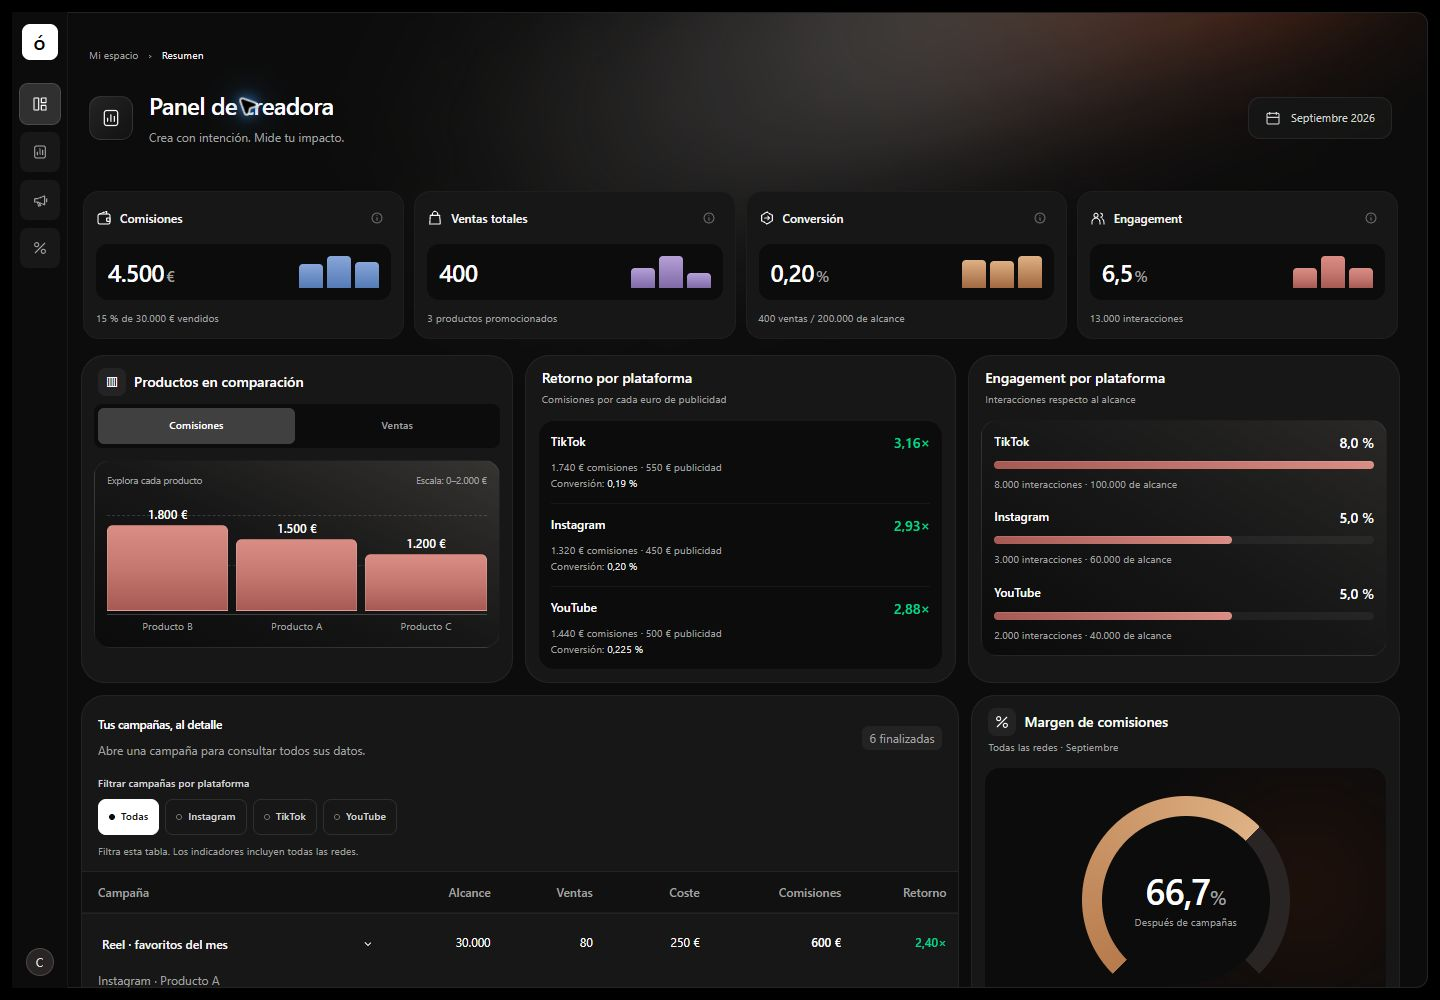
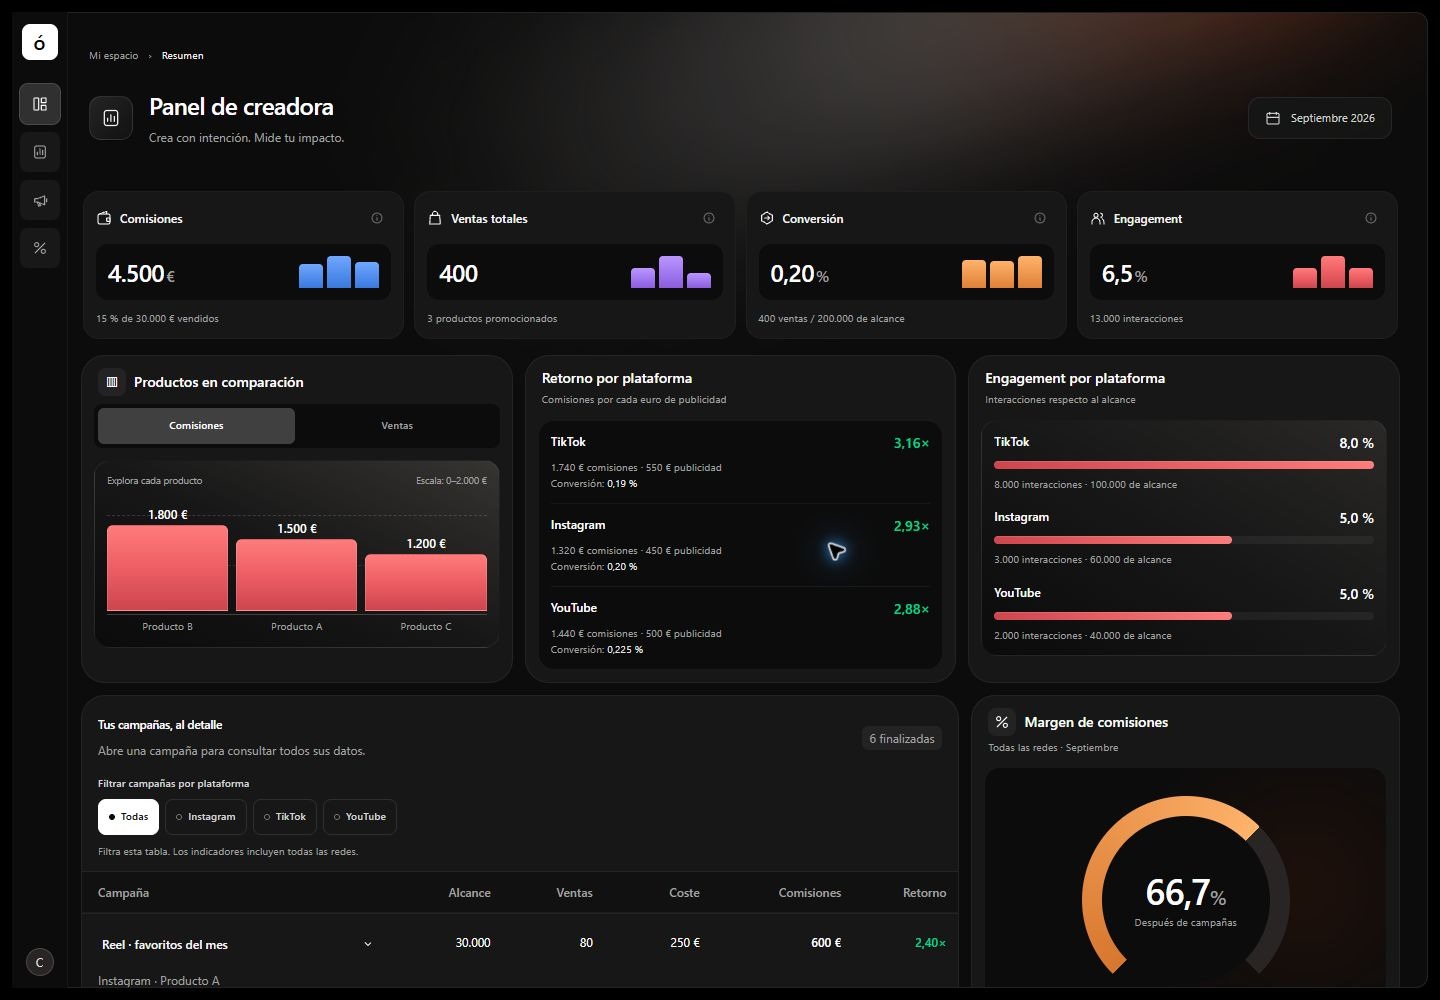
style: restore vibrancy to dashboard chart palette

diff --git a/index.html b/index.html
@@ -14,7 +14,7 @@
     <script src="https://cdn.jsdelivr.net/npm/@tailwindcss/browser@4"></script>
   </head>
   <body
-    class="p-2 font-sans text-white antialiased selection:bg-linear-to-b from-[#b6a0d7] to-[#806ba8]/40 sm:overflow-hidden sm:p-3"
+    class="p-2 font-sans text-white antialiased selection:bg-linear-to-b from-[#ba96ff] to-[#8c5ce0]/40 sm:overflow-hidden sm:p-3"
   >
     <a
       href="#contenido"
@@ -261,7 +261,7 @@
                 >
                   4.500<span class="ml-0.5 text-base text-neutral-400">€</span>
                 </span>
-                <span role="group" aria-label="Comisiones por plataforma" class="-my-1.5 flex h-11 w-20 shrink-0 items-end gap-1"><button id="mini-commission-0" type="button" aria-label="Comisiones en Instagram: 1.320 €" aria-describedby="tip-mini-commission-0" popovertarget="tip-mini-commission-0" class="flex h-11 min-w-0 flex-1 items-end rounded-sm pb-1.5 hover:brightness-110 focus-visible:outline-2 focus-visible:outline-offset-2 focus-visible:outline-white [anchor-name:--mini-commission-0]"><span aria-hidden="true" class="flex h-8 w-full items-end"><span class="block w-full rounded-t-sm bg-linear-to-b from-[#88a6d9] to-[#557bb7] h-[75.86%]"></span></span></button><button id="mini-commission-1" type="button" aria-label="Comisiones en TikTok: 1.740 €" aria-describedby="tip-mini-commission-1" popovertarget="tip-mini-commission-1" class="flex h-11 min-w-0 flex-1 items-end rounded-sm pb-1.5 hover:brightness-110 focus-visible:outline-2 focus-visible:outline-offset-2 focus-visible:outline-white [anchor-name:--mini-commission-1]"><span aria-hidden="true" class="flex h-8 w-full items-end"><span class="block w-full rounded-t-sm bg-linear-to-b from-[#88a6d9] to-[#557bb7] h-[100%]"></span></span></button><button id="mini-commission-2" type="button" aria-label="Comisiones en YouTube: 1.440 €" aria-describedby="tip-mini-commission-2" popovertarget="tip-mini-commission-2" class="flex h-11 min-w-0 flex-1 items-end rounded-sm pb-1.5 hover:brightness-110 focus-visible:outline-2 focus-visible:outline-offset-2 focus-visible:outline-white [anchor-name:--mini-commission-2]"><span aria-hidden="true" class="flex h-8 w-full items-end"><span class="block w-full rounded-t-sm bg-linear-to-b from-[#88a6d9] to-[#557bb7] h-[82.76%]"></span></span></button></span></div>
+                <span role="group" aria-label="Comisiones por plataforma" class="-my-1.5 flex h-11 w-20 shrink-0 items-end gap-1"><button id="mini-commission-0" type="button" aria-label="Comisiones en Instagram: 1.320 €" aria-describedby="tip-mini-commission-0" popovertarget="tip-mini-commission-0" class="flex h-11 min-w-0 flex-1 items-end rounded-sm pb-1.5 hover:brightness-110 focus-visible:outline-2 focus-visible:outline-offset-2 focus-visible:outline-white [anchor-name:--mini-commission-0]"><span aria-hidden="true" class="flex h-8 w-full items-end"><span class="block w-full rounded-t-sm bg-linear-to-b from-[#70a7ff] to-[#3979df] h-[75.86%]"></span></span></button><button id="mini-commission-1" type="button" aria-label="Comisiones en TikTok: 1.740 €" aria-describedby="tip-mini-commission-1" popovertarget="tip-mini-commission-1" class="flex h-11 min-w-0 flex-1 items-end rounded-sm pb-1.5 hover:brightness-110 focus-visible:outline-2 focus-visible:outline-offset-2 focus-visible:outline-white [anchor-name:--mini-commission-1]"><span aria-hidden="true" class="flex h-8 w-full items-end"><span class="block w-full rounded-t-sm bg-linear-to-b from-[#70a7ff] to-[#3979df] h-[100%]"></span></span></button><button id="mini-commission-2" type="button" aria-label="Comisiones en YouTube: 1.440 €" aria-describedby="tip-mini-commission-2" popovertarget="tip-mini-commission-2" class="flex h-11 min-w-0 flex-1 items-end rounded-sm pb-1.5 hover:brightness-110 focus-visible:outline-2 focus-visible:outline-offset-2 focus-visible:outline-white [anchor-name:--mini-commission-2]"><span aria-hidden="true" class="flex h-8 w-full items-end"><span class="block w-full rounded-t-sm bg-linear-to-b from-[#70a7ff] to-[#3979df] h-[82.76%]"></span></span></button></span></div>
               <p class="mt-2.5 text-[0.65rem] leading-4 text-neutral-400">
                 15 % de 30.000 € vendidos
               </p>
@@ -327,7 +327,7 @@
                 >
                   400<span class="ml-0.5 text-base text-neutral-400"></span>
                 </span>
-                <span role="group" aria-label="Ventas por plataforma" class="-my-1.5 flex h-11 w-20 shrink-0 items-end gap-1"><button id="mini-sales-0" type="button" aria-label="Ventas en Instagram: 120 ventas" aria-describedby="tip-mini-sales-0" popovertarget="tip-mini-sales-0" class="flex h-11 min-w-0 flex-1 items-end rounded-sm pb-1.5 hover:brightness-110 focus-visible:outline-2 focus-visible:outline-offset-2 focus-visible:outline-white [anchor-name:--mini-sales-0]"><span aria-hidden="true" class="flex h-8 w-full items-end"><span class="block w-full rounded-t-sm bg-linear-to-b from-[#b6a0d7] to-[#806ba8] h-[63.16%]"></span></span></button><button id="mini-sales-1" type="button" aria-label="Ventas en TikTok: 190 ventas" aria-describedby="tip-mini-sales-1" popovertarget="tip-mini-sales-1" class="flex h-11 min-w-0 flex-1 items-end rounded-sm pb-1.5 hover:brightness-110 focus-visible:outline-2 focus-visible:outline-offset-2 focus-visible:outline-white [anchor-name:--mini-sales-1]"><span aria-hidden="true" class="flex h-8 w-full items-end"><span class="block w-full rounded-t-sm bg-linear-to-b from-[#b6a0d7] to-[#806ba8] h-[100%]"></span></span></button><button id="mini-sales-2" type="button" aria-label="Ventas en YouTube: 90 ventas" aria-describedby="tip-mini-sales-2" popovertarget="tip-mini-sales-2" class="flex h-11 min-w-0 flex-1 items-end rounded-sm pb-1.5 hover:brightness-110 focus-visible:outline-2 focus-visible:outline-offset-2 focus-visible:outline-white [anchor-name:--mini-sales-2]"><span aria-hidden="true" class="flex h-8 w-full items-end"><span class="block w-full rounded-t-sm bg-linear-to-b from-[#b6a0d7] to-[#806ba8] h-[47.37%]"></span></span></button></span></div>
+                <span role="group" aria-label="Ventas por plataforma" class="-my-1.5 flex h-11 w-20 shrink-0 items-end gap-1"><button id="mini-sales-0" type="button" aria-label="Ventas en Instagram: 120 ventas" aria-describedby="tip-mini-sales-0" popovertarget="tip-mini-sales-0" class="flex h-11 min-w-0 flex-1 items-end rounded-sm pb-1.5 hover:brightness-110 focus-visible:outline-2 focus-visible:outline-offset-2 focus-visible:outline-white [anchor-name:--mini-sales-0]"><span aria-hidden="true" class="flex h-8 w-full items-end"><span class="block w-full rounded-t-sm bg-linear-to-b from-[#ba96ff] to-[#8c5ce0] h-[63.16%]"></span></span></button><button id="mini-sales-1" type="button" aria-label="Ventas en TikTok: 190 ventas" aria-describedby="tip-mini-sales-1" popovertarget="tip-mini-sales-1" class="flex h-11 min-w-0 flex-1 items-end rounded-sm pb-1.5 hover:brightness-110 focus-visible:outline-2 focus-visible:outline-offset-2 focus-visible:outline-white [anchor-name:--mini-sales-1]"><span aria-hidden="true" class="flex h-8 w-full items-end"><span class="block w-full rounded-t-sm bg-linear-to-b from-[#ba96ff] to-[#8c5ce0] h-[100%]"></span></span></button><button id="mini-sales-2" type="button" aria-label="Ventas en YouTube: 90 ventas" aria-describedby="tip-mini-sales-2" popovertarget="tip-mini-sales-2" class="flex h-11 min-w-0 flex-1 items-end rounded-sm pb-1.5 hover:brightness-110 focus-visible:outline-2 focus-visible:outline-offset-2 focus-visible:outline-white [anchor-name:--mini-sales-2]"><span aria-hidden="true" class="flex h-8 w-full items-end"><span class="block w-full rounded-t-sm bg-linear-to-b from-[#ba96ff] to-[#8c5ce0] h-[47.37%]"></span></span></button></span></div>
               <p class="mt-2.5 text-[0.65rem] leading-4 text-neutral-400">
                 3 productos promocionados
               </p>
@@ -392,7 +392,7 @@
                 >
                   0,20<span class="ml-0.5 text-base text-neutral-400">%</span>
                 </span>
-                <span role="group" aria-label="Conversión por plataforma" class="-my-1.5 flex h-11 w-20 shrink-0 items-end gap-1"><button id="mini-conversion-0" type="button" aria-label="Conversión en Instagram: 0,20 %" aria-describedby="tip-mini-conversion-0" popovertarget="tip-mini-conversion-0" class="flex h-11 min-w-0 flex-1 items-end rounded-sm pb-1.5 hover:brightness-110 focus-visible:outline-2 focus-visible:outline-offset-2 focus-visible:outline-white [anchor-name:--mini-conversion-0]"><span aria-hidden="true" class="flex h-8 w-full items-end"><span class="block w-full rounded-t-sm bg-linear-to-b from-[#dfb184] to-[#a26942] h-[88.89%]"></span></span></button><button id="mini-conversion-1" type="button" aria-label="Conversión en TikTok: 0,19 %" aria-describedby="tip-mini-conversion-1" popovertarget="tip-mini-conversion-1" class="flex h-11 min-w-0 flex-1 items-end rounded-sm pb-1.5 hover:brightness-110 focus-visible:outline-2 focus-visible:outline-offset-2 focus-visible:outline-white [anchor-name:--mini-conversion-1]"><span aria-hidden="true" class="flex h-8 w-full items-end"><span class="block w-full rounded-t-sm bg-linear-to-b from-[#dfb184] to-[#a26942] h-[84.44%]"></span></span></button><button id="mini-conversion-2" type="button" aria-label="Conversión en YouTube: 0,225 %" aria-describedby="tip-mini-conversion-2" popovertarget="tip-mini-conversion-2" class="flex h-11 min-w-0 flex-1 items-end rounded-sm pb-1.5 hover:brightness-110 focus-visible:outline-2 focus-visible:outline-offset-2 focus-visible:outline-white [anchor-name:--mini-conversion-2]"><span aria-hidden="true" class="flex h-8 w-full items-end"><span class="block w-full rounded-t-sm bg-linear-to-b from-[#dfb184] to-[#a26942] h-[100%]"></span></span></button></span></div>
+                <span role="group" aria-label="Conversión por plataforma" class="-my-1.5 flex h-11 w-20 shrink-0 items-end gap-1"><button id="mini-conversion-0" type="button" aria-label="Conversión en Instagram: 0,20 %" aria-describedby="tip-mini-conversion-0" popovertarget="tip-mini-conversion-0" class="flex h-11 min-w-0 flex-1 items-end rounded-sm pb-1.5 hover:brightness-110 focus-visible:outline-2 focus-visible:outline-offset-2 focus-visible:outline-white [anchor-name:--mini-conversion-0]"><span aria-hidden="true" class="flex h-8 w-full items-end"><span class="block w-full rounded-t-sm bg-linear-to-b from-[#ffb36b] to-[#e08036] h-[88.89%]"></span></span></button><button id="mini-conversion-1" type="button" aria-label="Conversión en TikTok: 0,19 %" aria-describedby="tip-mini-conversion-1" popovertarget="tip-mini-conversion-1" class="flex h-11 min-w-0 flex-1 items-end rounded-sm pb-1.5 hover:brightness-110 focus-visible:outline-2 focus-visible:outline-offset-2 focus-visible:outline-white [anchor-name:--mini-conversion-1]"><span aria-hidden="true" class="flex h-8 w-full items-end"><span class="block w-full rounded-t-sm bg-linear-to-b from-[#ffb36b] to-[#e08036] h-[84.44%]"></span></span></button><button id="mini-conversion-2" type="button" aria-label="Conversión en YouTube: 0,225 %" aria-describedby="tip-mini-conversion-2" popovertarget="tip-mini-conversion-2" class="flex h-11 min-w-0 flex-1 items-end rounded-sm pb-1.5 hover:brightness-110 focus-visible:outline-2 focus-visible:outline-offset-2 focus-visible:outline-white [anchor-name:--mini-conversion-2]"><span aria-hidden="true" class="flex h-8 w-full items-end"><span class="block w-full rounded-t-sm bg-linear-to-b from-[#ffb36b] to-[#e08036] h-[100%]"></span></span></button></span></div>
               <p class="mt-2.5 text-[0.65rem] leading-4 text-neutral-400">
                 400 ventas / 200.000 de alcance
               </p>
@@ -461,7 +461,7 @@
                 >
                   6,5<span class="ml-0.5 text-base text-neutral-400">%</span>
                 </span>
-                <span role="group" aria-label="Engagement por plataforma" class="-my-1.5 flex h-11 w-20 shrink-0 items-end gap-1"><button id="mini-engagement-0" type="button" aria-label="Engagement en Instagram: 5 %" aria-describedby="tip-mini-engagement-0" popovertarget="tip-mini-engagement-0" class="flex h-11 min-w-0 flex-1 items-end rounded-sm pb-1.5 hover:brightness-110 focus-visible:outline-2 focus-visible:outline-offset-2 focus-visible:outline-white [anchor-name:--mini-engagement-0]"><span aria-hidden="true" class="flex h-8 w-full items-end"><span class="block w-full rounded-t-sm bg-linear-to-b from-[#d98d84] via-[#c57870] to-[#a75954] h-[62.5%]"></span></span></button><button id="mini-engagement-1" type="button" aria-label="Engagement en TikTok: 8 %" aria-describedby="tip-mini-engagement-1" popovertarget="tip-mini-engagement-1" class="flex h-11 min-w-0 flex-1 items-end rounded-sm pb-1.5 hover:brightness-110 focus-visible:outline-2 focus-visible:outline-offset-2 focus-visible:outline-white [anchor-name:--mini-engagement-1]"><span aria-hidden="true" class="flex h-8 w-full items-end"><span class="block w-full rounded-t-sm bg-linear-to-b from-[#d98d84] via-[#c57870] to-[#a75954] h-[100%]"></span></span></button><button id="mini-engagement-2" type="button" aria-label="Engagement en YouTube: 5 %" aria-describedby="tip-mini-engagement-2" popovertarget="tip-mini-engagement-2" class="flex h-11 min-w-0 flex-1 items-end rounded-sm pb-1.5 hover:brightness-110 focus-visible:outline-2 focus-visible:outline-offset-2 focus-visible:outline-white [anchor-name:--mini-engagement-2]"><span aria-hidden="true" class="flex h-8 w-full items-end"><span class="block w-full rounded-t-sm bg-linear-to-b from-[#d98d84] via-[#c57870] to-[#a75954] h-[62.5%]"></span></span></button></span></div>
+                <span role="group" aria-label="Engagement por plataforma" class="-my-1.5 flex h-11 w-20 shrink-0 items-end gap-1"><button id="mini-engagement-0" type="button" aria-label="Engagement en Instagram: 5 %" aria-describedby="tip-mini-engagement-0" popovertarget="tip-mini-engagement-0" class="flex h-11 min-w-0 flex-1 items-end rounded-sm pb-1.5 hover:brightness-110 focus-visible:outline-2 focus-visible:outline-offset-2 focus-visible:outline-white [anchor-name:--mini-engagement-0]"><span aria-hidden="true" class="flex h-8 w-full items-end"><span class="block w-full rounded-t-sm bg-linear-to-b from-[#ff7b7b] via-[#ed5e64] to-[#ce454e] h-[62.5%]"></span></span></button><button id="mini-engagement-1" type="button" aria-label="Engagement en TikTok: 8 %" aria-describedby="tip-mini-engagement-1" popovertarget="tip-mini-engagement-1" class="flex h-11 min-w-0 flex-1 items-end rounded-sm pb-1.5 hover:brightness-110 focus-visible:outline-2 focus-visible:outline-offset-2 focus-visible:outline-white [anchor-name:--mini-engagement-1]"><span aria-hidden="true" class="flex h-8 w-full items-end"><span class="block w-full rounded-t-sm bg-linear-to-b from-[#ff7b7b] via-[#ed5e64] to-[#ce454e] h-[100%]"></span></span></button><button id="mini-engagement-2" type="button" aria-label="Engagement en YouTube: 5 %" aria-describedby="tip-mini-engagement-2" popovertarget="tip-mini-engagement-2" class="flex h-11 min-w-0 flex-1 items-end rounded-sm pb-1.5 hover:brightness-110 focus-visible:outline-2 focus-visible:outline-offset-2 focus-visible:outline-white [anchor-name:--mini-engagement-2]"><span aria-hidden="true" class="flex h-8 w-full items-end"><span class="block w-full rounded-t-sm bg-linear-to-b from-[#ff7b7b] via-[#ed5e64] to-[#ce454e] h-[62.5%]"></span></span></button></span></div>
               <p class="mt-2.5 text-[0.65rem] leading-4 text-neutral-400">
                 13.000 interacciones
               </p>
@@ -567,13 +567,13 @@
                       >
                         <span class="relative block h-24"
                           ><span
-                            class="bar absolute inset-x-0 bottom-0 block h-[90%] rounded-t-md border border-white/15 bg-linear-to-b from-[#d98d84] via-[#c57870] to-[#a75954] group-hover/bar:brightness-110 [article:has(#chart-sales:checked)_&]:hidden"
+                            class="bar absolute inset-x-0 bottom-0 block h-[90%] rounded-t-md border border-white/15 bg-linear-to-b from-[#ff7b7b] via-[#ed5e64] to-[#ce454e] group-hover/bar:brightness-110 [article:has(#chart-sales:checked)_&]:hidden"
                             ><span
                               class="absolute -top-5 inset-x-0 whitespace-nowrap text-center text-xs font-medium tabular-nums"
                               >1.800 €</span
                             ></span
                           ><span
-                            class="bar absolute inset-x-0 bottom-0 hidden h-[50%] rounded-t-md border border-white/15 bg-linear-to-b from-[#d98d84] via-[#c57870] to-[#a75954] group-hover/bar:brightness-110 [article:has(#chart-sales:checked)_&]:block"
+                            class="bar absolute inset-x-0 bottom-0 hidden h-[50%] rounded-t-md border border-white/15 bg-linear-to-b from-[#ff7b7b] via-[#ed5e64] to-[#ce454e] group-hover/bar:brightness-110 [article:has(#chart-sales:checked)_&]:block"
                             ><span
                               class="absolute -top-5 inset-x-0 text-center text-xs font-medium tabular-nums"
                               >100</span
@@ -616,13 +616,13 @@
                       >
                         <span class="relative block h-24"
                           ><span
-                            class="bar absolute inset-x-0 bottom-0 block h-[75%] rounded-t-md border border-white/15 bg-linear-to-b from-[#d98d84] via-[#c57870] to-[#a75954] group-hover/bar:brightness-110 [article:has(#chart-sales:checked)_&]:hidden"
+                            class="bar absolute inset-x-0 bottom-0 block h-[75%] rounded-t-md border border-white/15 bg-linear-to-b from-[#ff7b7b] via-[#ed5e64] to-[#ce454e] group-hover/bar:brightness-110 [article:has(#chart-sales:checked)_&]:hidden"
                             ><span
                               class="absolute -top-5 inset-x-0 whitespace-nowrap text-center text-xs font-medium tabular-nums"
                               >1.500 €</span
                             ></span
                           ><span
-                            class="bar absolute inset-x-0 bottom-0 hidden h-[100%] rounded-t-md border border-white/15 bg-linear-to-b from-[#d98d84] via-[#c57870] to-[#a75954] group-hover/bar:brightness-110 [article:has(#chart-sales:checked)_&]:block"
+                            class="bar absolute inset-x-0 bottom-0 hidden h-[100%] rounded-t-md border border-white/15 bg-linear-to-b from-[#ff7b7b] via-[#ed5e64] to-[#ce454e] group-hover/bar:brightness-110 [article:has(#chart-sales:checked)_&]:block"
                             ><span
                               class="absolute -top-5 inset-x-0 text-center text-xs font-medium tabular-nums"
                               >200</span
@@ -665,13 +665,13 @@
                       >
                         <span class="relative block h-24"
                           ><span
-                            class="bar absolute inset-x-0 bottom-0 block h-[60%] rounded-t-md border border-white/15 bg-linear-to-b from-[#d98d84] via-[#c57870] to-[#a75954] group-hover/bar:brightness-110 [article:has(#chart-sales:checked)_&]:hidden"
+                            class="bar absolute inset-x-0 bottom-0 block h-[60%] rounded-t-md border border-white/15 bg-linear-to-b from-[#ff7b7b] via-[#ed5e64] to-[#ce454e] group-hover/bar:brightness-110 [article:has(#chart-sales:checked)_&]:hidden"
                             ><span
                               class="absolute -top-5 inset-x-0 whitespace-nowrap text-center text-xs font-medium tabular-nums"
                               >1.200 €</span
                             ></span
                           ><span
-                            class="bar absolute inset-x-0 bottom-0 hidden h-[50%] rounded-t-md border border-white/15 bg-linear-to-b from-[#d98d84] via-[#c57870] to-[#a75954] group-hover/bar:brightness-110 [article:has(#chart-sales:checked)_&]:block"
+                            class="bar absolute inset-x-0 bottom-0 hidden h-[50%] rounded-t-md border border-white/15 bg-linear-to-b from-[#ff7b7b] via-[#ed5e64] to-[#ce454e] group-hover/bar:brightness-110 [article:has(#chart-sales:checked)_&]:block"
                             ><span
                               class="absolute -top-5 inset-x-0 text-center text-xs font-medium tabular-nums"
                               >100</span
@@ -785,7 +785,7 @@
                     aria-hidden="true"
                     class="col-span-2 h-2 rounded-full bg-white/5"
                   >
-                    <div class="h-2 w-[100%] rounded-full bg-linear-to-r from-[#a75954] to-[#d98d84] shadow-[inset_0_1px_0_0_#ffffff20]"></div>
+                    <div class="h-2 w-[100%] rounded-full bg-linear-to-r from-[#ce454e] to-[#ff7b7b] shadow-[inset_0_1px_0_0_#ffffff20]"></div>
                   </div>
                   <dd class="col-span-2 text-[0.65rem] text-neutral-400">
                     8.000 interacciones · 100.000 de alcance
@@ -800,7 +800,7 @@
                     aria-hidden="true"
                     class="col-span-2 h-2 rounded-full bg-white/5"
                   >
-                    <div class="h-2 w-[62.5%] rounded-full bg-linear-to-r from-[#a75954] to-[#d98d84] shadow-[inset_0_1px_0_0_#ffffff20]"></div>
+                    <div class="h-2 w-[62.5%] rounded-full bg-linear-to-r from-[#ce454e] to-[#ff7b7b] shadow-[inset_0_1px_0_0_#ffffff20]"></div>
                   </div>
                   <dd class="col-span-2 text-[0.65rem] text-neutral-400">
                     3.000 interacciones · 60.000 de alcance
@@ -815,7 +815,7 @@
                     aria-hidden="true"
                     class="col-span-2 h-2 rounded-full bg-white/5"
                   >
-                    <div class="h-2 w-[62.5%] rounded-full bg-linear-to-r from-[#a75954] to-[#d98d84] shadow-[inset_0_1px_0_0_#ffffff20]"></div>
+                    <div class="h-2 w-[62.5%] rounded-full bg-linear-to-r from-[#ce454e] to-[#ff7b7b] shadow-[inset_0_1px_0_0_#ffffff20]"></div>
                   </div>
                   <dd class="col-span-2 text-[0.65rem] text-neutral-400">
                     2.000 interacciones · 40.000 de alcance
@@ -1621,7 +1621,7 @@
                 class="absolute top-10 right-0 -z-10 size-40 rounded-full bg-orange-800/20 blur-3xl"
               ></div>
               <div
-                class="relative mx-auto size-52 rounded-full bg-[conic-gradient(from_225deg,#b77b4d_0deg,#dfb184_180deg,#292524_180deg_270deg,transparent_270deg_360deg)]"
+                class="relative mx-auto size-52 rounded-full bg-[conic-gradient(from_225deg,#d8762e_0deg,#ffb36b_180deg,#292524_180deg_270deg,transparent_270deg_360deg)]"
               >
                 <div
                   class="absolute inset-5 flex flex-col items-center justify-center rounded-full bg-[#0c0c0c]"

diff --git a/README.md b/README.md
@@ -24,7 +24,7 @@ Visita http://127.0.0.1:5500. Python solo sirve los archivos durante el desarrol
 
 ## Diseño e interacción
 
-La referencia proporcionada guía el fondo negro, las tarjetas oscuras redondeadas, el reflejo cálido, las barras de color y el indicador circular cálido. La paleta de estadísticas usa azul acero, violeta suave, cobre y coral apagado, con degradados discretos sobre las superficies oscuras.
+La referencia proporcionada guía el fondo negro, las tarjetas oscuras redondeadas, el reflejo cálido, las barras de color y el indicador circular cálido. La paleta de estadísticas usa azul luminoso, violeta, ámbar y coral, con degradados suaves y mayor intensidad sobre las superficies oscuras.
 
 En móvil, los cuatro KPIs forman un grupo horizontal deslizable con ajuste por tarjeta. Se ve parte de la siguiente tarjeta y una pista breve indica cómo descubrir las demás. El grupo recibe foco y admite flechas del teclado; los botones de ayuda también llevan el foco a cada tarjeta. Solo este grupo se desplaza horizontalmente, sin ampliar el ancho de la página. Desde sm se muestran dos columnas y desde lg, cuatro.
 
